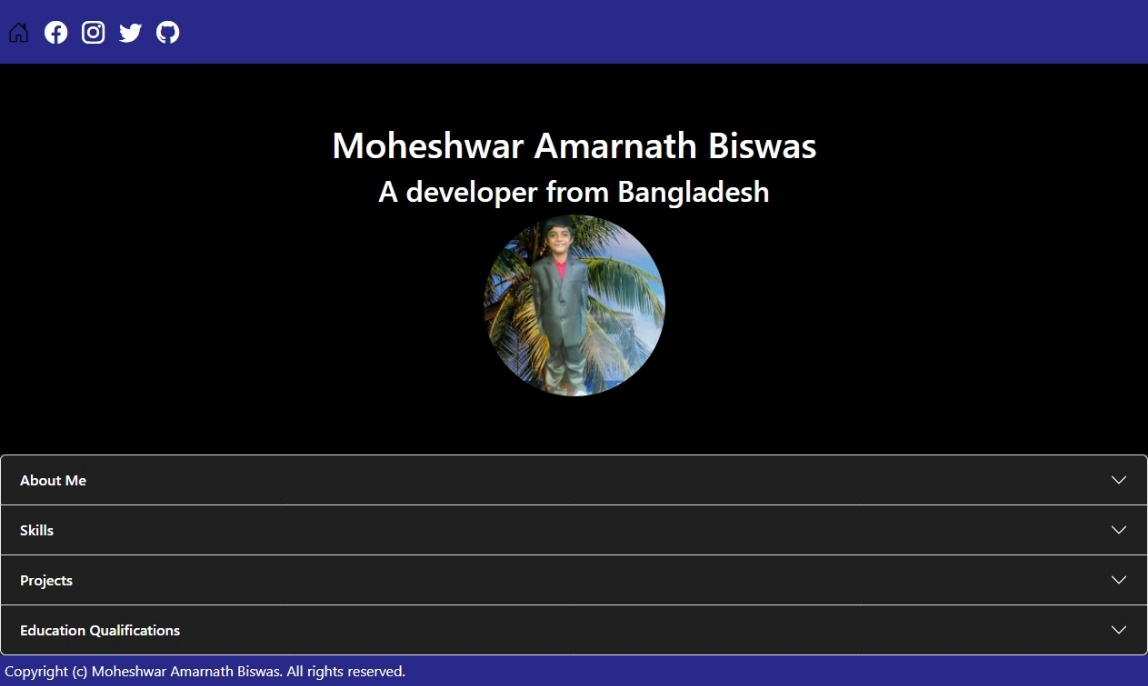
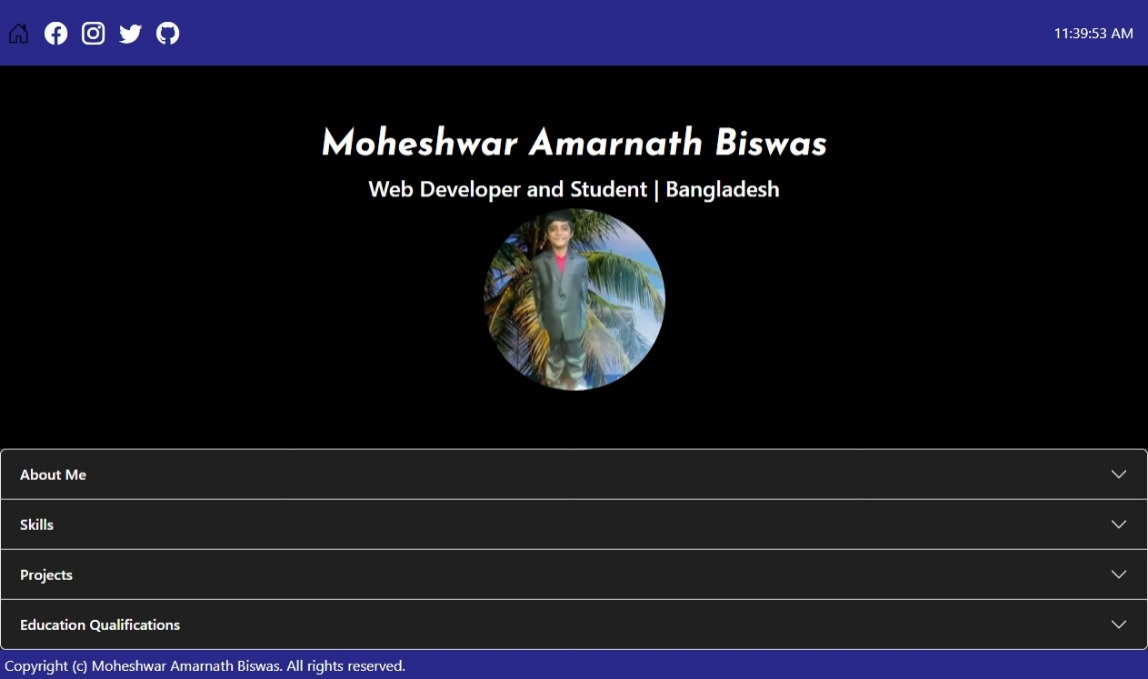
Fixed Lighthouse Errors

diff --git a/index.html b/index.html
@@ -17,6 +17,7 @@
       name="description"
       content="Official Site of Moheshwar Amarnath Biswas"
     />
+    <meta name="theme-color" content="#29298b" />
 
     <!-- Open Graph / Facebook -->
     <meta property="og:type" content="website" />
@@ -72,7 +73,7 @@
     <nav class="navbar navbar-expand">
       <ul class="navbar-nav navbar-collapse">
         <li class="nav-item">
-          <a class="nav-link active" href="./index.html"
+          <a class="nav-link active" href="./index.html" aria-label="Home"
             ><i class="bi bi-house-door"></i
           ></a>
         </li>
@@ -81,6 +82,7 @@
             class="nav-link"
             href="https://www.facebook.com/fluentmoheshwar"
             target="_blank"
+            aria-label="Facebook"
             ><i class="bi bi-facebook"></i
           ></a>
         </li>
@@ -88,6 +90,7 @@
           <a
             class="nav-link"
             href="https://instagram.com/fluentmoheshwar"
+            aria-label="Instagram"
             target="_blank"
             ><i class="bi bi-instagram"></i
           ></a>
@@ -97,6 +100,7 @@
             class="nav-link"
             href="https://twitter.com/fluentmoheshwar"
             target="_blank"
+            aria-label="Twitter"
             ><i class="bi bi-twitter"></i
           ></a>
         </li>
@@ -105,6 +109,7 @@
             class="nav-link"
             href="https://github.com/fluentmoheshwar"
             target="_blank"
+            aria-label="GitHub"
             ><i class="bi bi-github"></i
           ></a>
         </li>
@@ -115,7 +120,12 @@
     <header>
       <h1>Moheshwar Amarnath Biswas</h1>
       <h2 class="h4">Web Developer and Student | Bangladesh</h2>
-      <img src="/images/photo.webp" alt="Photo of Moheshwar Amarnath Biswas" />
+      <img
+        src="/images/photo.webp"
+        alt="Photo of Moheshwar Amarnath Biswas"
+        width="200"
+        height="200"
+      />
     </header>
 
     <div class="accordion">

diff --git a/src/style.css b/src/style.css
@@ -19,10 +19,9 @@ header {
 }
 
 header img {
-  max-width: 200px;
-  max-height: 200px;
   border-radius: 200px;
 }
+
 header h1 {
   font-family: "Josefin Sans", sans-serif;
 }
